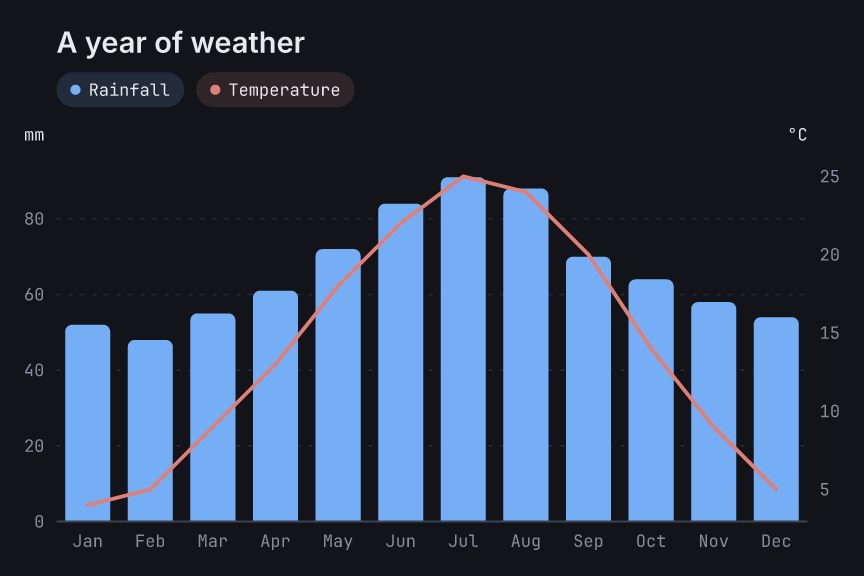
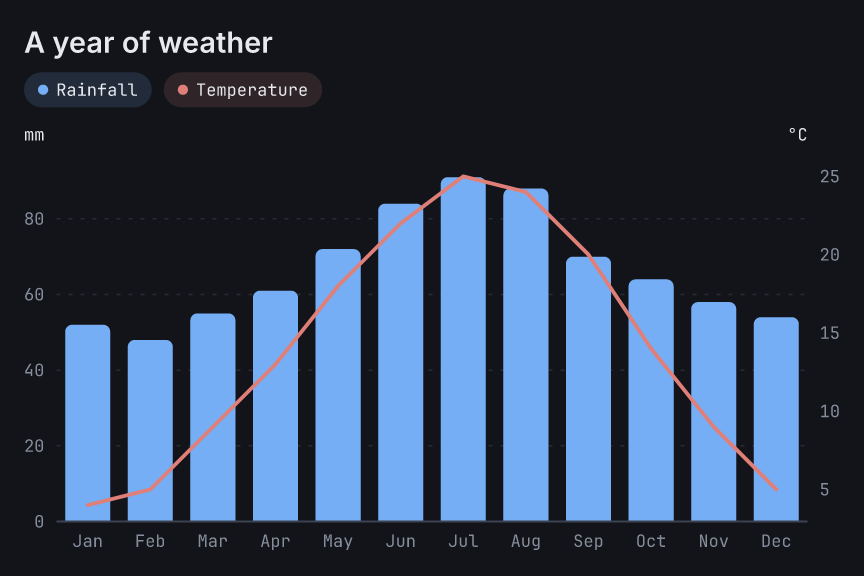
Open the READMEs with a gallery of twelve charts (#167)

Changed region(s): [[0.0312, 0.125, 0.4062, 0.1875], [0.0312, 0.0625, 0.375, 0.0938]]

diff --git a/scripts/readme/render_images.py b/scripts/readme/render_images.py
@@ -16,6 +16,101 @@ OUT = Path(__file__).resolve().parents[2] / "assets" / "readme"
 DPI = 144
 
 
+def gallery() -> None:
+    """Twelve kinds of chart on one 3 × 4 grid, the image at the top of the README."""
+    rng = np.random.default_rng(12)
+
+    fig = ub.Figure(13.5, 9, rows=3, cols=4, legend=ub.Legend.PER_PANEL, theme=ub.Theme.PIGMENT)
+    fig.title("umber").subtitle("Plotting for Python, rendered in Rust")
+
+    # Lines with a band.
+    x = np.linspace(0, 12, 200)
+    ax = fig.add_axes(row=0, col=0).title("Lines and bands")
+    ax.band(x, np.sin(x) - 0.3, np.sin(x) + 0.3).line(x, np.sin(x), label="mean").line(
+        x, np.cos(x) * 0.8, label="trend"
+    )
+    ax.legend(ub.LegendStyle.DIRECT)
+
+    # Grouped bars with values.
+    ax = fig.add_axes(row=0, col=1, x=ub.Scale.category()).title("Grouped bars")
+    ax.grouped_bar(
+        ["Q1", "Q2", "Q3"],
+        [ub.Series("North", [12.0, 18.0, 15.0]), ub.Series("South", [9.0, 11.0, 17.0])],
+        annotate=True,
+    )
+    ax.legend(ub.LegendStyle.NONE)
+
+    # Scatter coloured by value.
+    px = rng.normal(size=400)
+    py = 0.6 * px + rng.normal(scale=0.6, size=400)
+    ax = fig.add_axes(row=0, col=2).title("Color by value")
+    ax.scatter(px, py, color=ub.ColorBy(px * py, center=0.0)).colorbar("x · y")
+
+    # Donut.
+    ax = fig.add_pie_axes(row=0, col=3).title("Donut")
+    ax.pie(["Web", "App", "Shop"], [52.0, 30.0, 18.0], hole=0.45, annotate=True).legend(
+        ub.LegendStyle.CHIPS
+    )
+
+    # Histogram and KDE.
+    v = np.concatenate([rng.normal(40, 8, 3000), rng.normal(70, 6, 1500)])
+    ax = fig.add_axes(row=1, col=0).title("Histogram and KDE")
+    ax.hist(v, bins=40, stat=ub.Stat.DENSITY).kde(v)
+    ax.legend(ub.LegendStyle.NONE)
+
+    # Violin with swarm.
+    groups = [rng.normal(m, s, 60) for m, s in ((3.0, 0.8), (4.5, 1.1), (4.0, 0.6))]
+    ax = fig.add_axes(row=1, col=1, x=ub.Scale.category()).title("Violins and swarms")
+    ax.violin(["A", "B", "C"], groups).swarm(["A", "B", "C"], groups, size=ub.Size.pt(3))
+    ax.legend(ub.LegendStyle.NONE)
+
+    # Contour.
+    cx = np.linspace(-3, 3, 121)
+    cy = np.linspace(-2, 2, 81)
+    gx, gy = np.meshgrid(cx, cy)
+    z = 1.2 * np.exp(-((gx - 1) ** 2) - (gy - 0.4) ** 2) + 0.8 * np.exp(
+        -((gx + 1.2) ** 2) / 0.8 - (gy + 0.5) ** 2 / 0.6
+    )
+    ax = fig.add_axes(row=1, col=2).title("Contours")
+    ax.contour(cx, cy, z, style=ub.Contour.BOTH, annotate=True)
+
+    # Heatmap.
+    names = ["Mon", "Tue", "Wed", "Thu", "Fri"]
+    hours = ["9", "12", "15", "18"]
+    m = rng.integers(10, 90, size=(len(hours), len(names))).astype(float)
+    ax = fig.add_axes(row=1, col=3, x=ub.Scale.category(), y=ub.Scale.category()).title("Heatmap")
+    ax.heatmap(names, hours, m, annotate=True, format=ub.TickFormat.fixed(0))
+
+    # Time series with annotation.
+    days = np.datetime64("2026-03-01") + np.arange(30)
+    load = 25 + np.cumsum(rng.normal(0, 1.5, 30))
+    ax = fig.add_axes(row=2, col=0, x=ub.Scale.time()).title("Time and annotations")
+    ax.line(days, load)
+    peak = int(np.argmax(load))
+    ax.annotate("peak", (days[peak], float(load[peak])), offset=(20.0, 12.0))
+
+    # Twin y.
+    months = ["Jan", "Feb", "Mar", "Apr", "May", "Jun"]
+    ax = fig.add_axes(row=2, col=1, x=ub.Scale.category()).title("Two y axes")
+    ax.bar(months, [52.0, 48.0, 55.0, 61.0, 72.0, 84.0], label="rain")
+    ax.twin_y().line(months, [4.0, 5.0, 9.0, 13.0, 18.0, 22.0], label="°C")
+    ax.legend(ub.LegendStyle.NONE)
+
+    # Hexbin.
+    hx = rng.normal(size=20000)
+    hy = 0.6 * hx + rng.normal(scale=0.7, size=hx.size)
+    ax = fig.add_axes(row=2, col=2).title("Hexbin, log color")
+    ax.hexbin(hx, hy, gridsize=25, scale=ub.Scale.log()).colorbar("count")
+
+    # ECDF by group.
+    vals = np.concatenate([rng.lognormal(3.0, 0.4, 400), rng.lognormal(2.7, 0.3, 400)])
+    grp = ["before"] * 400 + ["after"] * 400
+    ax = fig.add_axes(row=2, col=3).title("ECDF, grouped by=")
+    ax.ecdf(vals, by=grp).legend(ub.LegendStyle.DIRECT)
+
+    fig.save_png(OUT / "gallery.png", dpi=160)
+
+
 def temperature() -> None:
     """Two noisy station series as lines, in the Graphite theme."""
     rng = np.random.default_rng(7)
@@ -170,6 +265,7 @@ def requests() -> None:
 def main() -> None:
     """Render every README image."""
     OUT.mkdir(parents=True, exist_ok=True)
+    gallery()
     temperature()
     sales()
     signals()

diff --git a/README-ZH.md b/README-ZH.md
@@ -6,7 +6,7 @@ umber 是一个 Python 绘图库，渲染核心用 Rust 编写。它可以绘制
 
 [English](https://github.com/TJ-Junhao/umber/blob/main/README.md)
 
-![Graphite 主题下两个站点的每日气温折线图](https://raw.githubusercontent.com/TJ-Junhao/umber/main/assets/readme/lines-graphite.png)
+![umber 在一张 grid 上画出的十二种图：折线与区间带、分组柱状图、按值着色的散点、环形图、直方图与密度曲线、小提琴图与蜂群图、等值线图、热力图、带标注的时间序列、双 y 轴、六边形分箱图和分组 ECDF](https://raw.githubusercontent.com/TJ-Junhao/umber/main/assets/readme/gallery.png)
 
 - **大数据量也快。** 渲染在 Rust 中完成：在标准的 GitHub Actions runner 上，100 万个点的折线渲染成 PNG 约 77 ms，渲染成 PDF 约 36 ms，分别比 matplotlib 快 2.7× 和 4.5×（见[性能](#性能)）。
 - **显式。** 每个选项都是有类型的值（`Color`、`Size`、`Dash`、`TickFormat` 等）。没有格式字符串，没有位置式的样式参数，也没有隐式转换。
@@ -58,7 +58,9 @@ fig.save_svg("temperature.svg")
 fig.save_pdf("temperature.pdf")
 ```
 
-这段代码画出的就是本页顶部那张图。数据可以是 list、tuple、NumPy 数组，或 pandas、polars 的 Series。缺失值（`NaN`，或 pandas、polars 可空列中的 null）会在图中留出空隙。
+![Graphite 主题下两个站点的每日气温折线图](https://raw.githubusercontent.com/TJ-Junhao/umber/main/assets/readme/lines-graphite.png)
+
+数据可以是 list、tuple、NumPy 数组，或 pandas、polars 的 Series。缺失值（`NaN`，或 pandas、polars 可空列中的 null）会在图中留出空隙。
 
 | 图表 | 方法 |
 | --- | --- |

diff --git a/README.md b/README.md
@@ -6,7 +6,7 @@ umber is a plotting library for Python with a rendering core written in Rust. It
 
 [简体中文](https://github.com/TJ-Junhao/umber/blob/main/README-ZH.md)
 
-![A line chart of daily temperature at two stations, in the Graphite theme](https://raw.githubusercontent.com/TJ-Junhao/umber/main/assets/readme/lines-graphite.png)
+![Twelve kinds of chart drawn by umber on one grid: lines and bands, grouped bars, points colored by value, a donut, a histogram with a density curve, violins with swarms, contours, a heatmap, a time series with an annotation, two y axes, a hexbin and grouped ECDFs](https://raw.githubusercontent.com/TJ-Junhao/umber/main/assets/readme/gallery.png)
 
 - **Fast on large data.** Rendering runs in Rust: a 1,000,000-point line renders to PNG in about 77 ms and to PDF in about 36 ms on a standard GitHub Actions runner, 2.7× and 4.5× faster than matplotlib (see [Performance](#performance)).
 - **Explicit.** Every option is a typed value (`Color`, `Size`, `Dash`, `TickFormat`, …). There are no format strings, no positional style arguments and no silent conversions.
@@ -58,7 +58,9 @@ fig.save_svg("temperature.svg")
 fig.save_pdf("temperature.pdf")
 ```
 
-This is the chart at the top of this page. Data can be a list, a tuple, a NumPy array, or a pandas or polars Series. Missing values (`NaN`, or nulls in nullable pandas and polars columns) leave a gap.
+![A line chart of daily temperature at two stations, in the Graphite theme](https://raw.githubusercontent.com/TJ-Junhao/umber/main/assets/readme/lines-graphite.png)
+
+Data can be a list, a tuple, a NumPy array, or a pandas or polars Series. Missing values (`NaN`, or nulls in nullable pandas and polars columns) leave a gap.
 
 | Chart | Method |
 | --- | --- |
